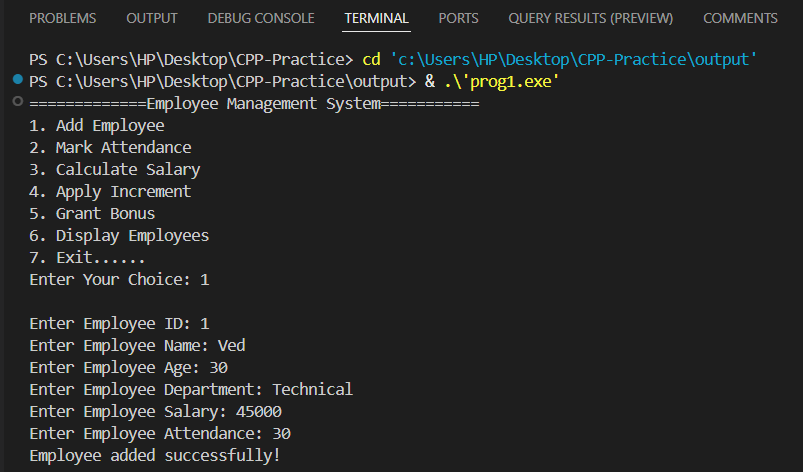
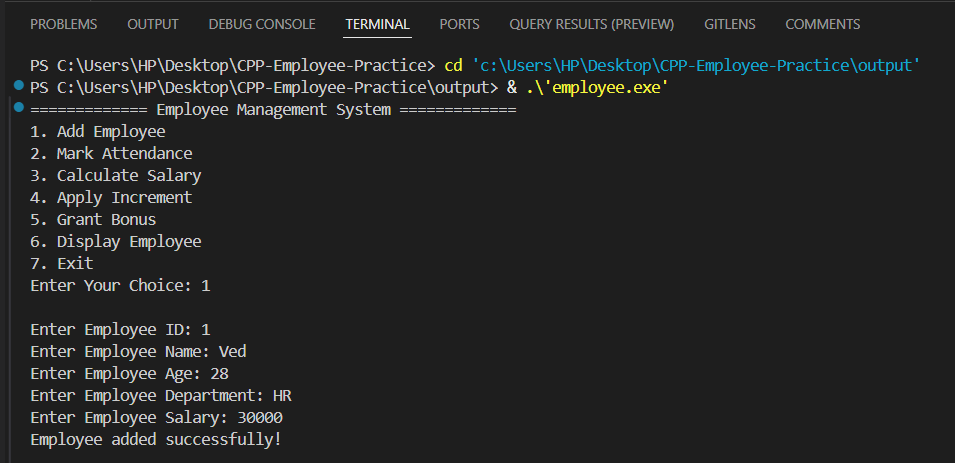
fix

Changed region(s): [[0.0, 0.0, 0.9651, 0.635], [0.0311, 0.6652, 0.4359, 0.9978]]

diff --git a/employee.cpp b/employee.cpp
@@ -4,7 +4,7 @@ using namespace std;
 
 class Employee
 {
-public:
+private:
     int id;
     string name;
     int age;
@@ -15,65 +15,98 @@ public:
     float increment;
 
 public:
-    void setData()
-    {   
-        cout << "Enter Employee ID: ";
-        cin >> id;
-        cout << "Enter Employee Name: ";
-        cin>>name;
-        cout << "Enter Employee Age: ";
-        cin >> age;
-        cout << "Enter Employee Department: ";
-        cin>>department;
-        cout << "Enter Employee Salary: ";
-        cin >> salary;
-        cout << "Enter Employee Attendance: ";
-        cin >> attendance;
-    }
+    Employee() : id(0), age(0), salary(0), attendance(0), bonus(0), increment(0) {}
 
     void addEmployee()
     {
-        setData();
+        cout << "Enter Employee ID: ";
+        cin >> id;
+        cout << "Enter Employee Name: ";
+        cin >> name;
+        cout << "Enter Employee Age: ";
+        cin >> age;
+        cout << "Enter Employee Department: ";
+        cin >> department;
+        cout << "Enter Base Salary: ";
+        cin >> salary;
+        attendance = 0;
+        bonus = 0;
+        increment = 0;
         cout << "Employee added successfully!" << endl;
     }
 
-    void markAttendance(int days)
+    void markAttendance()
     {
+        int days;
+        cout << "Enter attendance days: ";
+        cin >> days;
+
+        if (days < 0)
+        {
+            cout << "Invalid input! Attendance days cannot be negative." << endl;
+            return;
+        }
+
         attendance += days;
         cout << "Attendance marked for " << days << " days." << endl;
     }
-    
-    void calculateSalary()
+
+    void calculateSalary() const
     {
-        float totalSalary = salary + (attendance * 100); 
+        float totalSalary = salary + bonus + (attendance * 100);
         cout << "Total Salary: " << totalSalary << endl;
     }
 
-    void applyIncrement(float percentage)
+    void applyIncrement()
     {
-        increment = (salary * percentage) / 100;
-        salary += increment;
+        float percentage;
+        cout << "Enter increment percentage: ";
+        cin >> percentage;
+
+        if (percentage < 0)
+        {
+            cout << "Invalid increment percentage! Must be non-negative." << endl;
+            return;
+        }
+
+        float incrementAmount = (salary * percentage) / 100;
+        salary += incrementAmount;
+        increment += incrementAmount;
+
         cout << "Salary incremented by " << percentage << "%." << endl;
+        cout << "New Salary: " << salary << endl;
     }
 
-    void grantBonus(float amount)
+    void grantBonus()
     {
-        bonus = amount;
-        salary += bonus;
-        cout << "Bonus of " << amount << " granted." << endl;
+        float percentage;
+        cout << "Enter bonus percentage: ";
+        cin >> percentage;
 
+        if (percentage < 0)
+        {
+            cout << "Invalid bonus percentage! Bonus must be non-negative." << endl;
+            return;
+        }
+
+        float bonusAmount = (salary * percentage) / 100;
+        bonus += bonusAmount;
+
+        cout << "Bonus of " << percentage << "% granted." << endl;
+        cout << "New Total Salary After Bonus: " << (salary + bonus + (attendance * 100)) << endl;
     }
 
-    void displayEmployee()
+    void displayEmployee() const
     {
         cout << "Employee ID: " << id << endl;
         cout << "Employee Name: " << name << endl;
         cout << "Employee Age: " << age << endl;
         cout << "Employee Department: " << department << endl;
-        cout << "Employee Salary: " << salary << endl;
-        cout << "Employee Attendance: " << attendance << endl;
-        cout << "Bonus: " << bonus << endl;
-        cout << "Increment: " << increment << endl;
+        cout << "Base Salary: " << salary << endl;
+        cout << "Total Salary: " << (salary + bonus + (attendance * 100)) << endl;
+        cout << "Attendance Days: " << attendance << endl;
+        cout << "Bonus Received: " << bonus << endl;
+        cout << "Salary Increment: " << increment << endl;
     }
 };
 
@@ -81,53 +114,50 @@ int main()
 {
     int choice;
     Employee emp;
+
     do
     {
-        cout << "=============Employee Management System===========" << endl;
+        cout << "============= Employee Management System =============" << endl;
         cout << "1. Add Employee" << endl;
         cout << "2. Mark Attendance" << endl;
         cout << "3. Calculate Salary" << endl;
         cout << "4. Apply Increment" << endl;
         cout << "5. Grant Bonus" << endl;
-        cout << "6. Display Employees" << endl;
-        cout << "7. Exit......" << endl;
+        cout << "6. Display Employee" << endl;
+        cout << "7. Exit" << endl;
         cout << "Enter Your Choice: ";
         cin >> choice;
-
         cout << endl;
 
         switch (choice)
         {
         case 1:
-            emp.addEmployee();  
-            cout<<endl;
+            emp.addEmployee();
             break;
         case 2:
-            emp.markAttendance(6);
-            cout<<endl;
+            emp.markAttendance();
             break;
         case 3:
             emp.calculateSalary();
-            cout<<endl;
             break;
         case 4:
-            emp.applyIncrement(10);
-            cout<<endl;
+            emp.applyIncrement();
             break;
         case 5:
-            emp.grantBonus(3000);
-            cout<<endl;
+            emp.grantBonus();
             break;
         case 6:
             emp.displayEmployee();
-            cout<<endl;
             break;
         case 7:
-            cout << "Exit The System...";
+            cout << "Exiting the system..." << endl;
             break;
         default:
-            cout << "Invalid Choice! Try Again.";
+            cout << "Invalid Choice! Try Again." << endl;
         }
+
+        cout << endl;
+
     } while (choice != 7);
 
     return 0;
